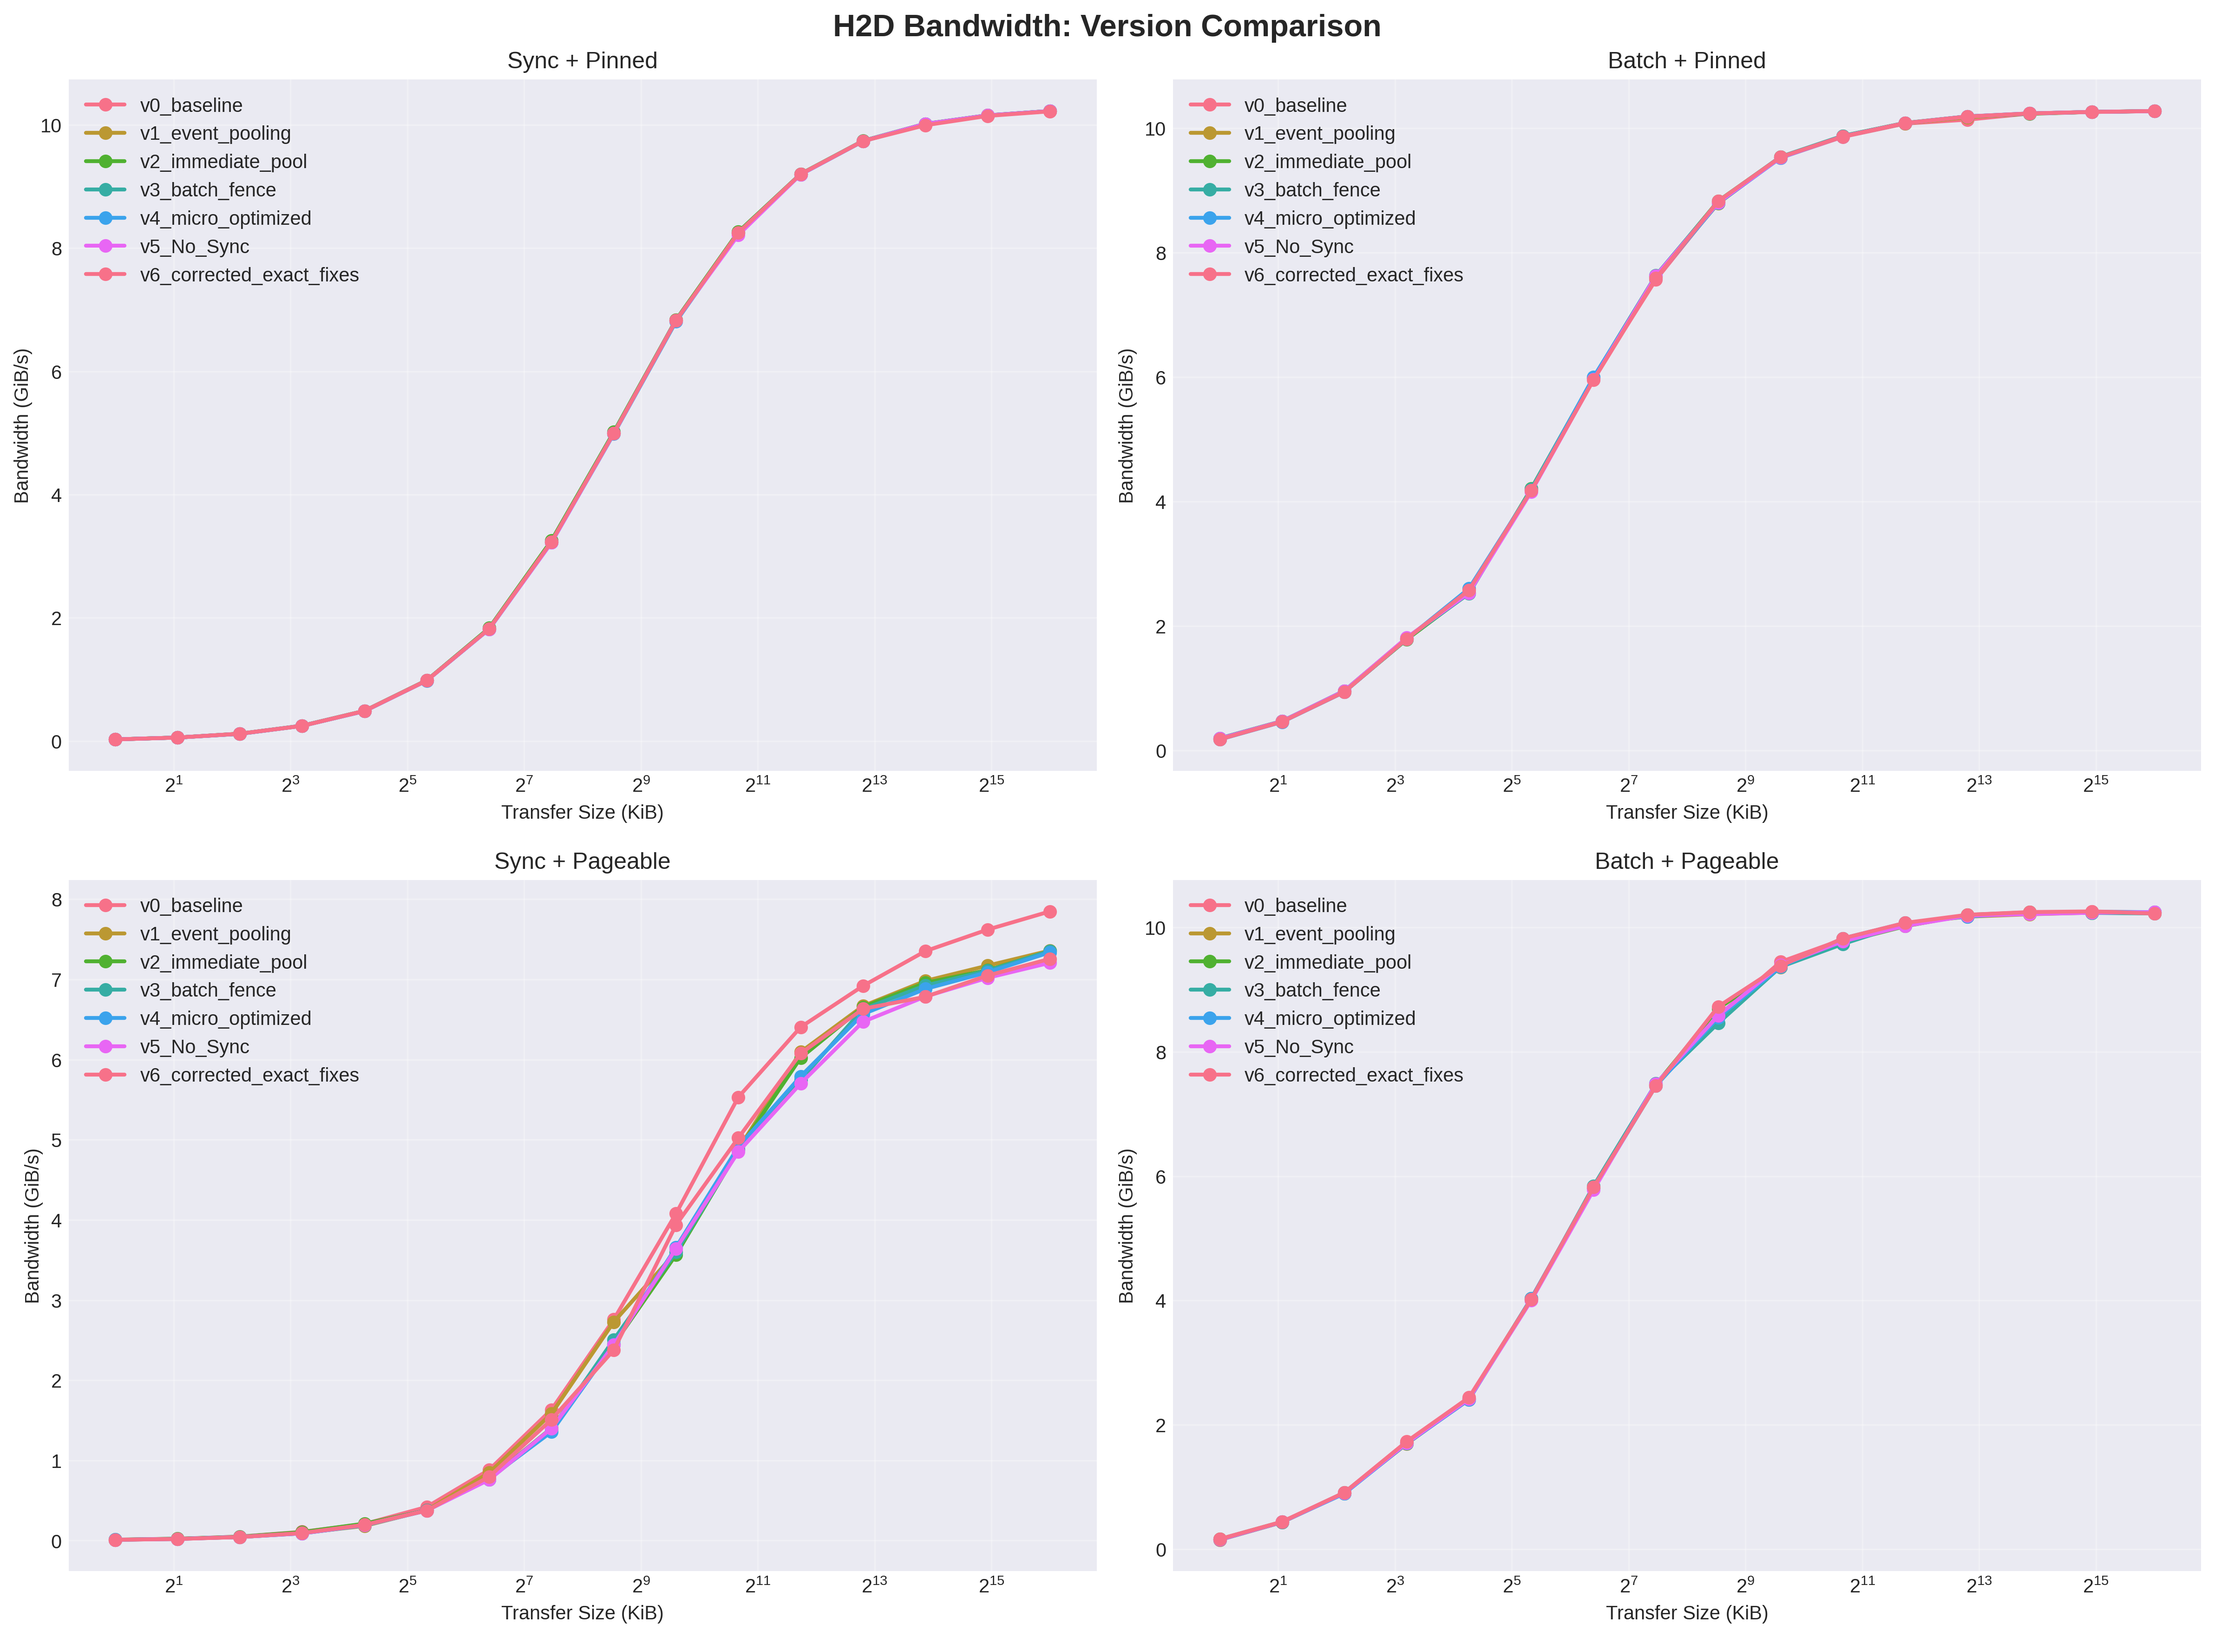
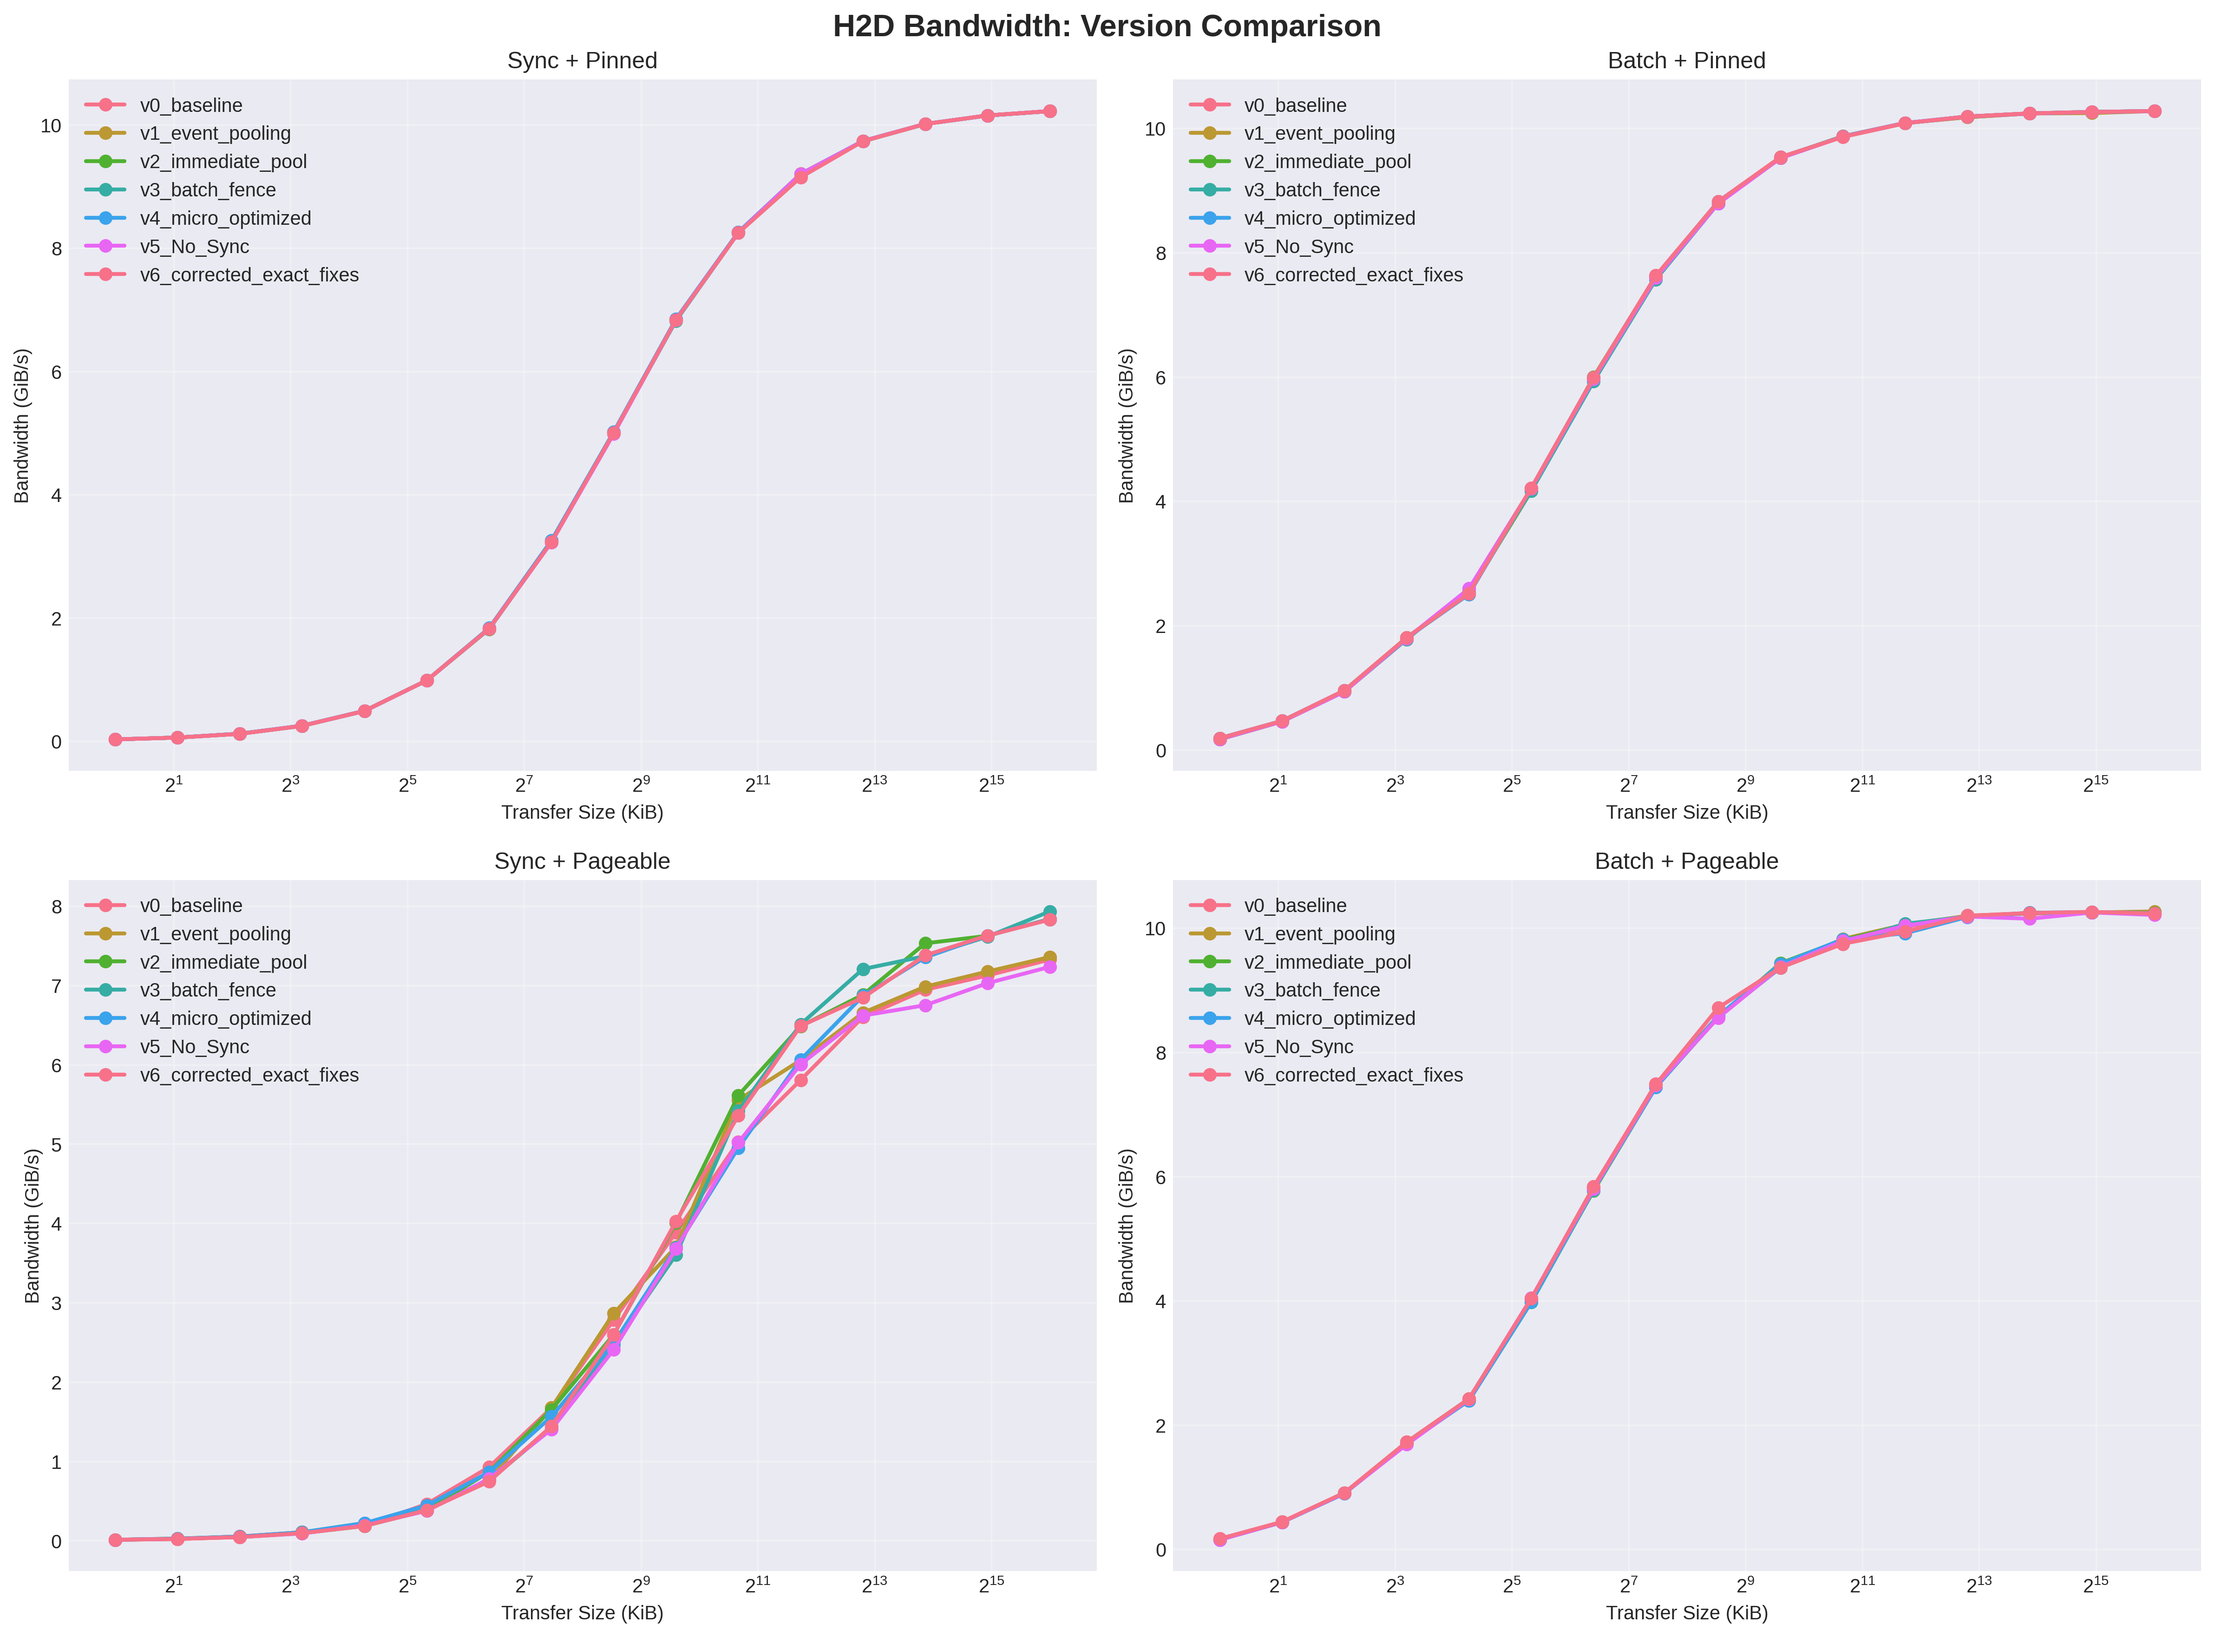
new graphs for current impl

diff --git a/bench/comparison_all/version_comparison.md b/bench/comparison_all/version_comparison.md
@@ -2,87 +2,87 @@
 
 | Version | Operation | Mode | Pinned | Peak (GiB/s) | Median (GiB/s) |
 | --- | --- | --- | --- | --- | --- |
-| v0_baseline | D2D | Sync | Yes | 189.28 | 6.32 |
-| v0_baseline | D2D | Sync | No | 189.04 | 5.19 |
-| v0_baseline | D2D | Batch | Yes | 208.40 | 40.83 |
-| v0_baseline | D2D | Batch | No | 208.30 | 41.50 |
-| v0_baseline | H2D | Sync | Yes | 10.22 | 4.12 |
-| v0_baseline | H2D | Sync | No | 7.85 | 2.20 |
-| v0_baseline | H2D | Batch | Yes | 10.27 | 8.19 |
-| v0_baseline | H2D | Batch | No | 10.25 | 8.02 |
-| v0_baseline | D2H | Sync | Yes | 10.53 | 4.28 |
-| v0_baseline | D2H | Sync | No | 7.98 | 2.16 |
-| v0_baseline | D2H | Batch | Yes | 10.59 | 9.15 |
+| v0_baseline | D2D | Sync | Yes | 188.88 | 6.38 |
+| v0_baseline | D2D | Sync | No | 188.89 | 6.69 |
+| v0_baseline | D2D | Batch | Yes | 208.36 | 41.48 |
+| v0_baseline | D2D | Batch | No | 208.31 | 41.48 |
+| v0_baseline | H2D | Sync | Yes | 10.22 | 4.13 |
+| v0_baseline | H2D | Sync | No | 7.33 | 2.23 |
+| v0_baseline | H2D | Batch | Yes | 10.27 | 8.22 |
+| v0_baseline | H2D | Batch | No | 10.25 | 8.04 |
+| v0_baseline | D2H | Sync | Yes | 10.53 | 4.29 |
+| v0_baseline | D2H | Sync | No | 7.43 | 2.24 |
+| v0_baseline | D2H | Batch | Yes | 10.58 | 9.15 |
 | v0_baseline | D2H | Batch | No | 10.55 | 8.85 |
-| v1_event_pooling | D2D | Sync | Yes | 189.16 | 6.11 |
-| v1_event_pooling | D2D | Sync | No | 189.15 | 6.44 |
-| v1_event_pooling | D2D | Batch | Yes | 208.38 | 41.17 |
-| v1_event_pooling | D2D | Batch | No | 208.10 | 41.41 |
+| v1_event_pooling | D2D | Sync | Yes | 188.87 | 6.72 |
+| v1_event_pooling | D2D | Sync | No | 188.66 | 6.77 |
+| v1_event_pooling | D2D | Batch | Yes | 208.41 | 40.87 |
+| v1_event_pooling | D2D | Batch | No | 208.25 | 41.50 |
 | v1_event_pooling | H2D | Sync | Yes | 10.22 | 4.12 |
-| v1_event_pooling | H2D | Sync | No | 7.36 | 2.15 |
+| v1_event_pooling | H2D | Sync | No | 7.36 | 2.27 |
 | v1_event_pooling | H2D | Batch | Yes | 10.27 | 8.20 |
-| v1_event_pooling | H2D | Batch | No | 10.24 | 8.01 |
-| v1_event_pooling | D2H | Sync | Yes | 10.53 | 4.27 |
-| v1_event_pooling | D2H | Sync | No | 7.44 | 2.12 |
+| v1_event_pooling | H2D | Batch | No | 10.27 | 8.02 |
+| v1_event_pooling | D2H | Sync | Yes | 10.53 | 4.29 |
+| v1_event_pooling | D2H | Sync | No | 7.47 | 2.30 |
 | v1_event_pooling | D2H | Batch | Yes | 10.58 | 9.14 |
-| v1_event_pooling | D2H | Batch | No | 10.55 | 8.85 |
-| v2_immediate_pool | D2D | Sync | Yes | 189.50 | 6.84 |
-| v2_immediate_pool | D2D | Sync | No | 188.65 | 6.40 |
-| v2_immediate_pool | D2D | Batch | Yes | 208.36 | 41.21 |
-| v2_immediate_pool | D2D | Batch | No | 208.40 | 37.08 |
-| v2_immediate_pool | H2D | Sync | Yes | 10.22 | 4.13 |
-| v2_immediate_pool | H2D | Sync | No | 7.35 | 1.92 |
-| v2_immediate_pool | H2D | Batch | Yes | 10.27 | 8.22 |
-| v2_immediate_pool | H2D | Batch | No | 10.24 | 8.08 |
-| v2_immediate_pool | D2H | Sync | Yes | 10.53 | 4.29 |
-| v2_immediate_pool | D2H | Sync | No | 7.42 | 1.96 |
-| v2_immediate_pool | D2H | Batch | Yes | 10.59 | 9.09 |
-| v2_immediate_pool | D2H | Batch | No | 10.55 | 8.41 |
-| v3_batch_fence | D2D | Sync | Yes | 180.55 | 1.55 |
-| v3_batch_fence | D2D | Sync | No | 177.94 | 3.23 |
-| v3_batch_fence | D2D | Batch | Yes | 208.41 | 41.16 |
-| v3_batch_fence | D2D | Batch | No | 208.47 | 41.50 |
-| v3_batch_fence | H2D | Sync | Yes | 10.22 | 4.11 |
-| v3_batch_fence | H2D | Sync | No | 7.35 | 1.95 |
-| v3_batch_fence | H2D | Batch | Yes | 10.27 | 8.23 |
-| v3_batch_fence | H2D | Batch | No | 10.23 | 7.97 |
-| v3_batch_fence | D2H | Sync | Yes | 10.53 | 4.27 |
-| v3_batch_fence | D2H | Sync | No | 7.48 | 2.00 |
-| v3_batch_fence | D2H | Batch | Yes | 10.59 | 9.15 |
-| v3_batch_fence | D2H | Batch | No | 10.55 | 8.95 |
-| v4_micro_optimized | D2D | Sync | Yes | 175.83 | 2.89 |
-| v4_micro_optimized | D2D | Sync | No | 180.49 | 3.13 |
-| v4_micro_optimized | D2D | Batch | Yes | 208.34 | 40.49 |
-| v4_micro_optimized | D2D | Batch | No | 208.36 | 41.41 |
-| v4_micro_optimized | H2D | Sync | Yes | 10.22 | 4.10 |
-| v4_micro_optimized | H2D | Sync | No | 7.34 | 1.90 |
-| v4_micro_optimized | H2D | Batch | Yes | 10.27 | 8.20 |
-| v4_micro_optimized | H2D | Batch | No | 10.25 | 8.00 |
-| v4_micro_optimized | D2H | Sync | Yes | 10.53 | 4.26 |
-| v4_micro_optimized | D2H | Sync | No | 7.34 | 1.94 |
-| v4_micro_optimized | D2H | Batch | Yes | 10.58 | 9.13 |
-| v4_micro_optimized | D2H | Batch | No | 10.53 | 8.86 |
-| v5_No_Sync | D2D | Sync | Yes | 176.45 | 2.10 |
-| v5_No_Sync | D2D | Sync | No | 180.98 | 2.91 |
-| v5_No_Sync | D2D | Batch | Yes | 208.39 | 41.18 |
-| v5_No_Sync | D2D | Batch | No | 208.05 | 41.45 |
-| v5_No_Sync | H2D | Sync | Yes | 10.22 | 4.11 |
-| v5_No_Sync | H2D | Sync | No | 7.21 | 1.92 |
-| v5_No_Sync | H2D | Batch | Yes | 10.27 | 8.22 |
-| v5_No_Sync | H2D | Batch | No | 10.24 | 8.03 |
-| v5_No_Sync | D2H | Sync | Yes | 10.53 | 4.27 |
-| v5_No_Sync | D2H | Sync | No | 7.27 | 1.94 |
-| v5_No_Sync | D2H | Batch | Yes | 10.59 | 9.15 |
-| v5_No_Sync | D2H | Batch | No | 10.55 | 8.94 |
-| v6_corrected_exact_fixes | D2D | Sync | Yes | 177.09 | 1.97 |
-| v6_corrected_exact_fixes | D2D | Sync | No | 162.77 | 1.79 |
-| v6_corrected_exact_fixes | D2D | Batch | Yes | 208.36 | 40.97 |
-| v6_corrected_exact_fixes | D2D | Batch | No | 208.38 | 41.53 |
-| v6_corrected_exact_fixes | H2D | Sync | Yes | 10.22 | 4.11 |
-| v6_corrected_exact_fixes | H2D | Sync | No | 7.26 | 1.94 |
-| v6_corrected_exact_fixes | H2D | Batch | Yes | 10.27 | 8.21 |
-| v6_corrected_exact_fixes | H2D | Batch | No | 10.26 | 8.09 |
-| v6_corrected_exact_fixes | D2H | Sync | Yes | 10.53 | 4.27 |
-| v6_corrected_exact_fixes | D2H | Sync | No | 7.31 | 1.99 |
-| v6_corrected_exact_fixes | D2H | Batch | Yes | 10.59 | 9.15 |
-| v6_corrected_exact_fixes | D2H | Batch | No | 10.56 | 8.97 |
+| v1_event_pooling | D2H | Batch | No | 10.56 | 8.84 |
+| v2_immediate_pool | D2D | Sync | Yes | 188.94 | 6.15 |
+| v2_immediate_pool | D2D | Sync | No | 189.21 | 6.96 |
+| v2_immediate_pool | D2D | Batch | Yes | 208.32 | 41.19 |
+| v2_immediate_pool | D2D | Batch | No | 208.34 | 41.43 |
+| v2_immediate_pool | H2D | Sync | Yes | 10.22 | 4.12 |
+| v2_immediate_pool | H2D | Sync | No | 7.84 | 2.12 |
+| v2_immediate_pool | H2D | Batch | Yes | 10.27 | 8.20 |
+| v2_immediate_pool | H2D | Batch | No | 10.25 | 8.00 |
+| v2_immediate_pool | D2H | Sync | Yes | 10.53 | 4.27 |
+| v2_immediate_pool | D2H | Sync | No | 7.95 | 2.25 |
+| v2_immediate_pool | D2H | Batch | Yes | 10.59 | 9.15 |
+| v2_immediate_pool | D2H | Batch | No | 10.55 | 8.85 |
+| v3_batch_fence | D2D | Sync | Yes | 188.77 | 6.23 |
+| v3_batch_fence | D2D | Sync | No | 189.20 | 7.37 |
+| v3_batch_fence | D2D | Batch | Yes | 208.36 | 40.46 |
+| v3_batch_fence | D2D | Batch | No | 208.38 | 41.46 |
+| v3_batch_fence | H2D | Sync | Yes | 10.22 | 4.12 |
+| v3_batch_fence | H2D | Sync | No | 7.93 | 1.94 |
+| v3_batch_fence | H2D | Batch | Yes | 10.27 | 8.18 |
+| v3_batch_fence | H2D | Batch | No | 10.25 | 8.00 |
+| v3_batch_fence | D2H | Sync | Yes | 10.53 | 4.28 |
+| v3_batch_fence | D2H | Sync | No | 7.97 | 1.96 |
+| v3_batch_fence | D2H | Batch | Yes | 10.58 | 9.13 |
+| v3_batch_fence | D2H | Batch | No | 10.55 | 8.84 |
+| v4_micro_optimized | D2D | Sync | Yes | 188.46 | 6.83 |
+| v4_micro_optimized | D2D | Sync | No | 188.76 | 3.87 |
+| v4_micro_optimized | D2D | Batch | Yes | 208.30 | 41.22 |
+| v4_micro_optimized | D2D | Batch | No | 208.30 | 41.51 |
+| v4_micro_optimized | H2D | Sync | Yes | 10.22 | 4.14 |
+| v4_micro_optimized | H2D | Sync | No | 7.83 | 2.03 |
+| v4_micro_optimized | H2D | Batch | Yes | 10.27 | 8.22 |
+| v4_micro_optimized | H2D | Batch | No | 10.26 | 8.01 |
+| v4_micro_optimized | D2H | Sync | Yes | 10.53 | 4.29 |
+| v4_micro_optimized | D2H | Sync | No | 7.98 | 2.03 |
+| v4_micro_optimized | D2H | Batch | Yes | 10.58 | 9.15 |
+| v4_micro_optimized | D2H | Batch | No | 10.55 | 8.85 |
+| v5_No_Sync | D2D | Sync | Yes | 177.70 | 3.36 |
+| v5_No_Sync | D2D | Sync | No | 164.76 | 3.09 |
+| v5_No_Sync | D2D | Batch | Yes | 208.36 | 40.82 |
+| v5_No_Sync | D2D | Batch | No | 208.40 | 41.52 |
+| v5_No_Sync | H2D | Sync | Yes | 10.23 | 4.11 |
+| v5_No_Sync | H2D | Sync | No | 7.23 | 1.91 |
+| v5_No_Sync | H2D | Batch | Yes | 10.27 | 8.19 |
+| v5_No_Sync | H2D | Batch | No | 10.25 | 8.01 |
+| v5_No_Sync | D2H | Sync | Yes | 10.53 | 4.28 |
+| v5_No_Sync | D2H | Sync | No | 7.32 | 1.95 |
+| v5_No_Sync | D2H | Batch | Yes | 10.59 | 9.14 |
+| v5_No_Sync | D2H | Batch | No | 10.54 | 8.85 |
+| v6_corrected_exact_fixes | D2D | Sync | Yes | 189.03 | 5.72 |
+| v6_corrected_exact_fixes | D2D | Sync | No | 187.72 | 6.07 |
+| v6_corrected_exact_fixes | D2D | Batch | Yes | 208.29 | 41.24 |
+| v6_corrected_exact_fixes | D2D | Batch | No | 208.30 | 41.44 |
+| v6_corrected_exact_fixes | H2D | Sync | Yes | 10.22 | 4.12 |
+| v6_corrected_exact_fixes | H2D | Sync | No | 7.83 | 2.02 |
+| v6_corrected_exact_fixes | H2D | Batch | Yes | 10.27 | 8.22 |
+| v6_corrected_exact_fixes | H2D | Batch | No | 10.26 | 8.10 |
+| v6_corrected_exact_fixes | D2H | Sync | Yes | 10.53 | 4.28 |
+| v6_corrected_exact_fixes | D2H | Sync | No | 7.94 | 2.08 |
+| v6_corrected_exact_fixes | D2H | Batch | Yes | 10.58 | 9.14 |
+| v6_corrected_exact_fixes | D2H | Batch | No | 10.56 | 8.95 |
